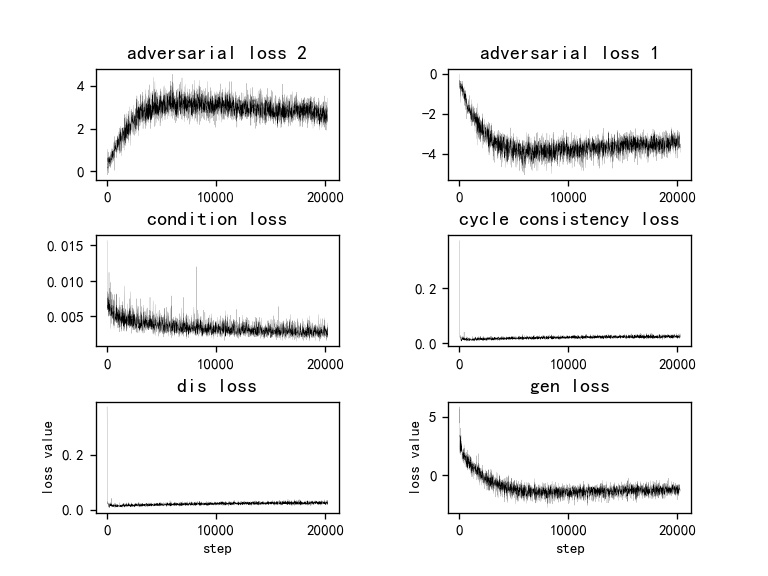
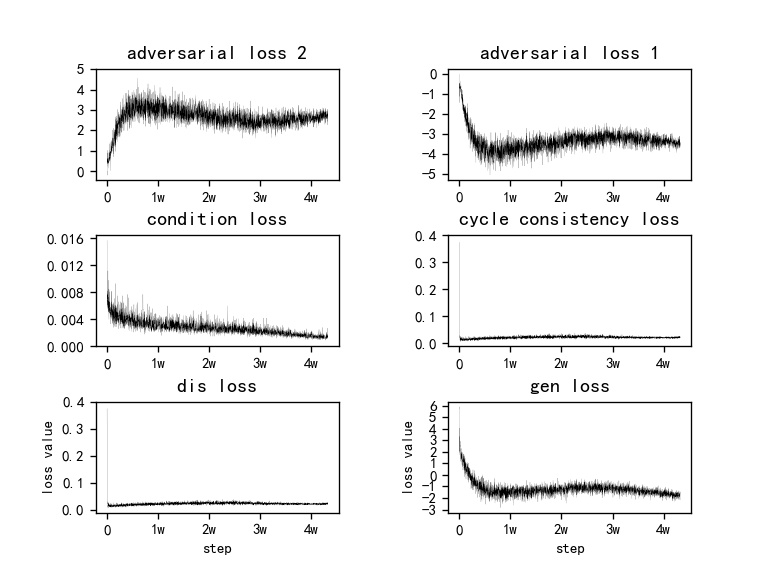
update

diff --git a/image process/plot_loss.py b/image process/plot_loss.py
@@ -6,7 +6,7 @@ plt.rcParams['font.sans-serif']=['SimHei']  # 用来正常显示中文标签
 plt.rcParams['axes.unicode_minus']=False  # 用来正常显示负号
 
 lines = []
-with open(r"C:\Users\81955\Desktop\logs\logs2.txt", "r+") as f:
+with open(r"C:\Users\81955\Desktop\ckpts\face\ganimation\200513_232207\logs.txt", "r+") as f:
     lines = f.readlines()
 
 
@@ -38,7 +38,7 @@ for line in lines:
     loss["gen_rec"].append(d)
     loss["total"].append(10*d + 1*(a+b) + 160*c)
 
-print(loss)
+# print(loss)
 
 plt.figure(dpi=120)
 plt.tight_layout()
@@ -46,12 +46,12 @@ plt.subplots_adjust(wspace=0.45, hspace=0.5)  # 调整子图间距
 xy = ["321","322", "323", "324", "325", "326"]
 widths = [0.07, 0.07, 0.07, 0.09, 0.09, 0.07]
 labels = ['adversarial loss 2', 'adversarial loss 1', 'condition loss', 'cycle consistency loss', 'dis loss', 'gen loss', 'total loss']
-# ticks_y = [[0, 1, 2, 3, 4], [-5, -4, -3, -2, -1], [0, 0.004, 0.008, 0.012, 0.016, 0.020, 0.022, 0.024, 0.026], [0, 0.05, 0.1, 0.15, 0.2, 0.25, 0.3]]
-# ticks_x = ['0', '2k', '4k', '6k', '8k', '1w']
-# scale_x = [0, 1000, 2000, 3000, 4000, 5000]
+ticks_y = [[0, 1, 2, 3, 4, 5], [-5, -4, -3, -2, -1, 0], [0, 0.004, 0.008, 0.012, 0.016], [0, 0.1, 0.2, 0.3, 0.4], [0, 0.1, 0.2, 0.3, 0.4], [-3, -2, -1, 0, 1, 2, 3, 4 ,5, 6]]
+ticks_x = ['0', '1w', '2w', '3w', '4w']
+scale_x = [0, 10000, 20000, 30000, 40000]
 idx = 0
-space = 5
-step = [i for i in range(len(loss["dis_fake"]))]
+space = 10  # 控制损失显示间距，避免图像线条过于集中
+step = [i for i in range(len(loss["dis_fake"]))]  # step数
 fontsize = 10
 
 for name, val in loss.items():
@@ -65,10 +65,8 @@ for name, val in loss.items():
         plt.xlabel("step", fontsize=fontsize-1)
         plt.ylabel("loss value", fontsize=fontsize-1)
     # 设置刻度字体大小
-    # plt.xticks(scale_x, ticks_x, fontsize=fontsize-1)
-    # plt.yticks(ticks_y[idx], fontsize=fontsize-1)
-    plt.xticks(fontsize=fontsize-1)
-    plt.yticks(fontsize=fontsize-1)
+    plt.xticks(scale_x, ticks_x, fontsize=fontsize-1)
+    plt.yticks(ticks_y[idx], fontsize=fontsize-1)
     idx += 1
 plt.savefig("1.jpg")
 plt.show()
@@ -79,9 +77,7 @@ plt.plot(step[::space], loss['total'][::space], linewidth=0.2, color='k')
 plt.xlabel("step", fontsize=fontsize-6)
 plt.ylabel("loss value", fontsize=fontsize-6)
 # 设置刻度字体大小
-# plt.xticks(scale_x, ticks_x, fontsize=fontsize-6)
-# plt.yticks(fontsize=fontsize-1)
-plt.xticks(fontsize=fontsize-6)
+plt.xticks(scale_x, ticks_x, fontsize=fontsize-6)
 plt.yticks(fontsize=fontsize-1)
 
 plt.savefig("2.jpg")

diff --git a/solvers.py b/solvers.py
@@ -117,6 +117,7 @@ class Solver(object):
                     # alpha是AU的激活度，表征源图像向目标图像转换的度
                     # 例如：interpolate_len=5, idx=2, α=[0.2, 0.4, 0.6, 0.8, 1.0]
                     cur_alpha = (idx + 1.0) / float(self.opt.interpolate_len)
+                    # 通过下式控制变换程度
                     # targetAUs = α·targetAUs + (1-α)·sourceAUs
                     cur_tar_aus = cur_alpha * batch['tar_aus'] + (1 - cur_alpha) * batch['src_aus']
                     test_batch = {'src_img': batch['src_img'], 'tar_aus': cur_tar_aus,

diff --git a/README.md b/README.md
@@ -1,8 +1,5 @@
 # Expression Transformation
 ***Overview see: [Mind mapping](https://www.processon.com/view/link/5e96d6b7637689282f68ef9d).(pw: )***
-
-## results
-   unfinished.
    
 ## details
-   ...
+   see image process/readMe.txt for usage.
